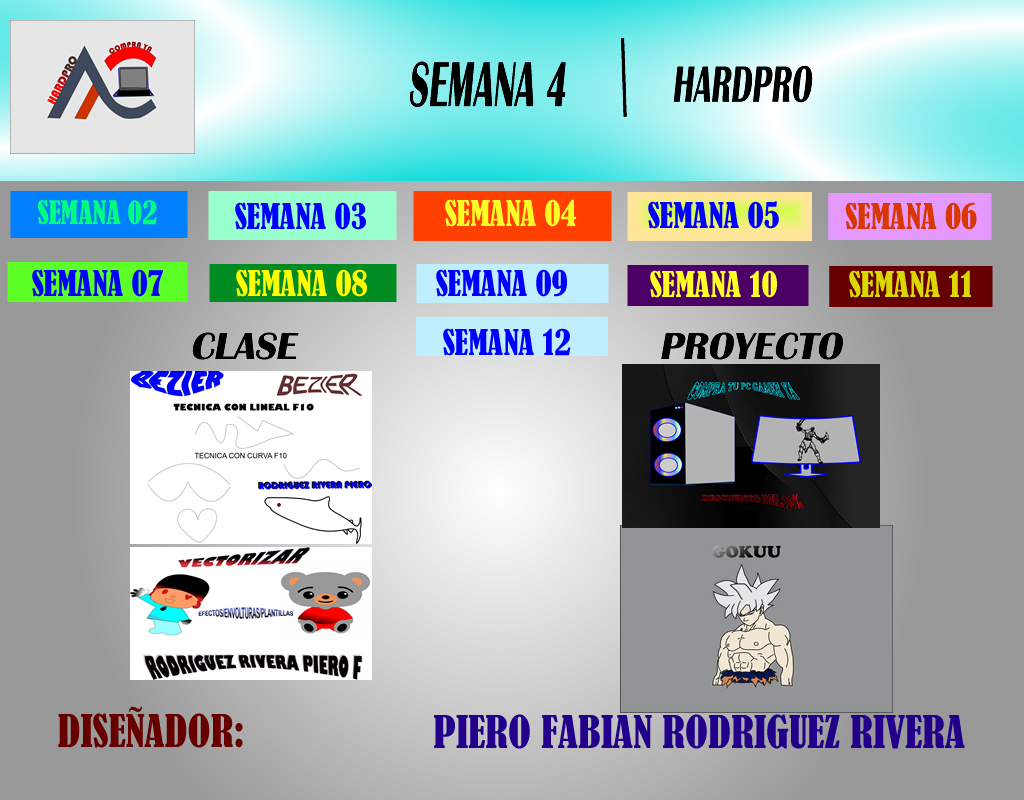
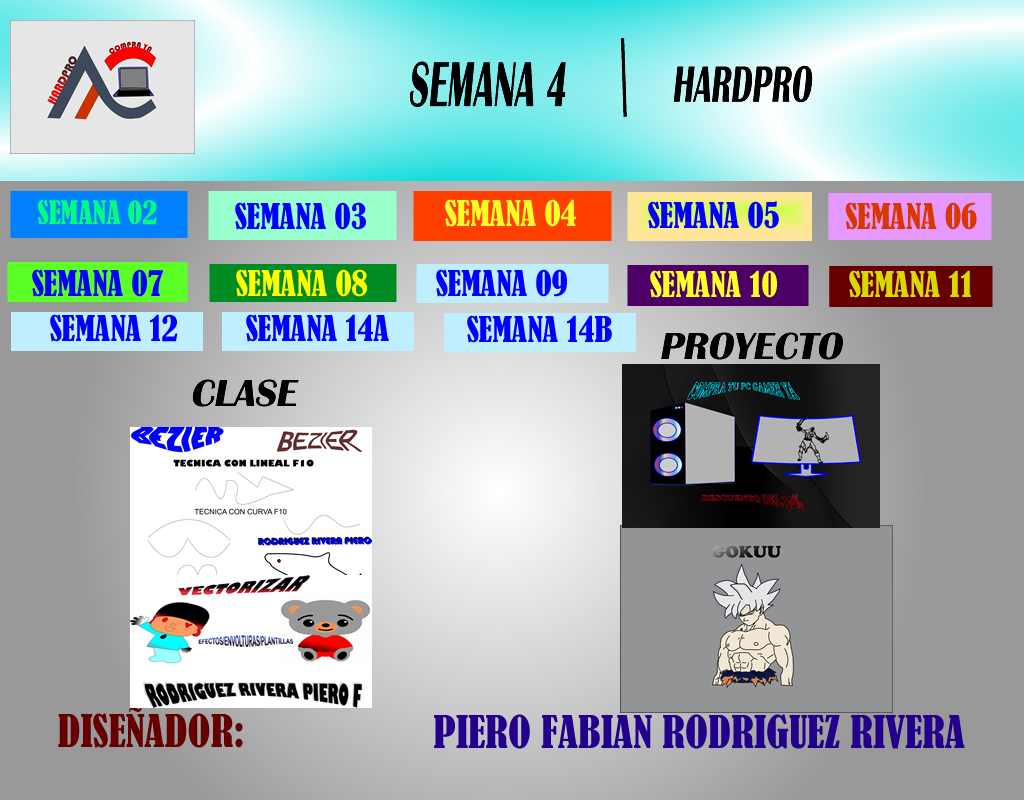
Add files via upload

Changed region(s): [[0.0, 0.375, 0.625, 0.9062]]

diff --git a/s12.html b/s12.html
@@ -5,20 +5,22 @@
 <head>
 <title>s12</title>
 <meta http-equiv="Content-Type" content="text/html; charset=utf-8" />
-<!--Fireworks CS6 Dreamweaver CS6 target.  Created Wed Jul 09 19:06:53 GMT-0500 2025-->
+<!--Fireworks CS6 Dreamweaver CS6 target.  Created Wed Jul 23 15:44:39 GMT-0500 2025-->
 </head>
 <center>
 <body bgcolor="#ffffff" style="margin-top:70px">
 <img name="s12" src="s12.png" width="1024" height="800" id="s12" usemap="#m_s12" alt="" /><map name="m_s12" id="m_s12">
+<area shape="rect" coords="0,308,195,350" href="s14a.html" alt="" />
+<area shape="rect" coords="205,310,400,352" href="s14b.html" alt="" />
 <area shape="rect" coords="0,0,195,138" href="index.html" alt="" />
-<area shape="rect" coords="824,250,989,292" href="s11.html" alt="" />
-<area shape="rect" coords="624,251,805,291" href="s10.html" alt="" />
+<area shape="rect" coords="825,250,990,292" href="s11.html" alt="" />
+<area shape="rect" coords="623,249,804,289" href="s10.html" alt="" />
 <area shape="rect" coords="410,249,605,291" href="s09.html" alt="" />
 <area shape="rect" coords="205,249,392,287" href="s08.html" alt="" />
 <area shape="rect" coords="4,247,184,287" href="s07.html" alt="" />
 <area shape="rect" coords="824,177,987,226" href="s06.html" alt="" />
 <area shape="rect" coords="624,176,811,226" href="s05.html" alt="" />
-<area shape="rect" coords="412,174,612,224" href="s04.html" alt="" />
+<area shape="rect" coords="407,173,607,223" href="s04.html" alt="" />
 <area shape="rect" coords="205,176,392,226" href="s03.html" alt="" />
 <area shape="rect" coords="7,176,184,221" href="s02.html" alt="" />
 </map>

diff --git a/s14b.html b/s14b.html
@@ -1,0 +1,29 @@
+<!DOCTYPE html PUBLIC "-//W3C//DTD XHTML 1.0 Transitional//EN"
+"http://www.w3.org/TR/xhtml1/DTD/xhtml1-transitional.dtd">
+<!-- saved from url=(0014)about:internet -->
+<html xmlns="http://www.w3.org/1999/xhtml">
+<head>
+<title>s14b</title>
+<meta http-equiv="Content-Type" content="text/html; charset=utf-8" />
+<!--Fireworks CS6 Dreamweaver CS6 target.  Created Wed Jul 23 15:44:55 GMT-0500 2025-->
+</head>
+<center>
+<body bgcolor="#ffffff" style="margin-top:70px">
+<img name="s14b" src="s14b.png" width="1024" height="800" id="s14b" usemap="#m_s14b" alt="" /><map name="m_s14b" id="m_s14b">
+<area shape="rect" coords="210,320,417,360" href="s14a.html" alt="" />
+<area shape="rect" coords="0,320,195,359" href="s12.html" alt="" />
+<area shape="rect" coords="0,13,195,151" href="index.html" alt="" />
+<area shape="rect" coords="824,263,989,305" href="s11.html" alt="" />
+<area shape="rect" coords="624,264,805,304" href="s10.html" alt="" />
+<area shape="rect" coords="410,262,605,304" href="s09.html" alt="" />
+<area shape="rect" coords="206,264,393,302" href="s08.html" alt="" />
+<area shape="rect" coords="4,260,184,300" href="s07.html" alt="" />
+<area shape="rect" coords="824,190,987,239" href="s06.html" alt="" />
+<area shape="rect" coords="624,189,811,239" href="s05.html" alt="" />
+<area shape="rect" coords="409,188,609,238" href="s04.html" alt="" />
+<area shape="rect" coords="205,189,392,239" href="s03.html" alt="" />
+<area shape="rect" coords="7,189,184,234" href="s02.html" alt="" />
+</map>
+</body>
+</center>
+</html>

diff --git a/s14a.html b/s14a.html
@@ -1,0 +1,29 @@
+<!DOCTYPE html PUBLIC "-//W3C//DTD XHTML 1.0 Transitional//EN"
+"http://www.w3.org/TR/xhtml1/DTD/xhtml1-transitional.dtd">
+<!-- saved from url=(0014)about:internet -->
+<html xmlns="http://www.w3.org/1999/xhtml">
+<head>
+<title>s14a</title>
+<meta http-equiv="Content-Type" content="text/html; charset=utf-8" />
+<!--Fireworks CS6 Dreamweaver CS6 target.  Created Wed Jul 23 15:44:47 GMT-0500 2025-->
+</head>
+<center>
+<body bgcolor="#ffffff" style="margin-top:70px">
+<img name="s14a" src="s14a.png" width="1024" height="800" id="s14a" usemap="#m_s14a" alt="" /><map name="m_s14a" id="m_s14a">
+<area shape="rect" coords="205,317,412,357" href="s14b.html" alt="" />
+<area shape="rect" coords="0,317,195,356" href="s12.html" alt="" />
+<area shape="rect" coords="0,10,195,148" href="index.html" alt="" />
+<area shape="rect" coords="824,260,989,302" href="s11.html" alt="" />
+<area shape="rect" coords="624,261,805,301" href="s10.html" alt="" />
+<area shape="rect" coords="410,259,605,301" href="s09.html" alt="" />
+<area shape="rect" coords="205,259,392,297" href="s08.html" alt="" />
+<area shape="rect" coords="4,257,184,297" href="s07.html" alt="" />
+<area shape="rect" coords="824,187,987,236" href="s06.html" alt="" />
+<area shape="rect" coords="624,186,811,236" href="s05.html" alt="" />
+<area shape="rect" coords="409,185,609,235" href="s04.html" alt="" />
+<area shape="rect" coords="205,186,392,236" href="s03.html" alt="" />
+<area shape="rect" coords="7,186,184,231" href="s02.html" alt="" />
+</map>
+</body>
+<center>
+</html>

diff --git a/index.html b/index.html
@@ -5,12 +5,14 @@
 <head>
 <title>index</title>
 <meta http-equiv="Content-Type" content="text/html; charset=utf-8" />
-<!--Fireworks CS6 Dreamweaver CS6 target.  Created Wed Jul 09 19:00:17 GMT-0500 2025-->
+<!--Fireworks CS6 Dreamweaver CS6 target.  Created Wed Jul 23 15:43:03 GMT-0500 2025-->
 </head>
 <center>
 <body bgcolor="#ffffff" style="margin-top:70px">
 <img name="index" src="index.png" width="1000" height="800" id="index" usemap="#m_index" alt="" /><map name="m_index" id="m_index">
-<area shape="rect" coords="406,326,603,365" href="s12.html" alt="" />
+<area shape="rect" coords="215,326,422,366" href="s14a.html" alt="" />
+<area shape="rect" coords="446,327,641,366" href="s14b.html" alt="" />
+<area shape="rect" coords="7,326,204,365" href="s12.html" alt="" />
 <area shape="rect" coords="827,275,992,317" href="s11.html" alt="" />
 <area shape="rect" coords="627,276,808,316" href="s10.html" alt="" />
 <area shape="rect" coords="401,272,596,314" href="s09.html" alt="" />

diff --git a/s10.html b/s10.html
@@ -5,12 +5,14 @@
 <head>
 <title>s10</title>
 <meta http-equiv="Content-Type" content="text/html; charset=utf-8" />
-<!--Fireworks CS6 Dreamweaver CS6 target.  Created Wed Jul 09 19:06:37 GMT-0500 2025-->
+<!--Fireworks CS6 Dreamweaver CS6 target.  Created Wed Jul 23 15:44:14 GMT-0500 2025-->
 </head>
 <center>
 <body bgcolor="#ffffff" style="margin-top:70px">
 <img name="s10" src="s10.png" width="1024" height="800" id="s10" usemap="#m_s10" alt="" /><map name="m_s10" id="m_s10">
-<area shape="rect" coords="408,300,620,355" href="s12.html" alt="" />
+<area shape="rect" coords="437,314,644,355" href="s14b.html" alt="" />
+<area shape="rect" coords="215,310,422,351" href="s14a.html" alt="" />
+<area shape="rect" coords="4,311,211,352" href="s12.html" alt="" />
 <area shape="rect" coords="4,4,191,138" href="index.html" alt="" />
 <area shape="rect" coords="824,250,989,292" href="s11.html" alt="" />
 <area shape="rect" coords="624,251,805,291" href="javascript:;" alt="" />

diff --git a/s11.html b/s11.html
@@ -5,12 +5,14 @@
 <head>
 <title>s11</title>
 <meta http-equiv="Content-Type" content="text/html; charset=utf-8" />
-<!--Fireworks CS6 Dreamweaver CS6 target.  Created Wed Jul 09 19:06:46 GMT-0500 2025-->
+<!--Fireworks CS6 Dreamweaver CS6 target.  Created Wed Jul 23 15:44:23 GMT-0500 2025-->
 </head>
 <center>
 <body bgcolor="#ffffff" style="margin-top:70px">
 <img name="s11" src="s11.png" width="1024" height="800" id="s11" usemap="#m_s11" alt="" /><map name="m_s11" id="m_s11">
-<area shape="rect" coords="409,308,604,347" href="s12.html" alt="" />
+<area shape="rect" coords="437,314,644,355" href="s14b.html" alt="" />
+<area shape="rect" coords="215,310,422,351" href="s14a.html" alt="" />
+<area shape="rect" coords="4,310,211,351" href="s12.html" alt="" />
 <area shape="rect" coords="0,0,202,138" href="index.html" alt="" />
 <area shape="rect" coords="824,250,989,292" href="javascript:;" alt="" />
 <area shape="rect" coords="624,251,805,291" href="s10.html" alt="" />

diff --git a/s02.html b/s02.html
@@ -5,12 +5,14 @@
 <head>
 <title>s02</title>
 <meta http-equiv="Content-Type" content="text/html; charset=utf-8" />
-<!--Fireworks CS6 Dreamweaver CS6 target.  Created Wed Jul 09 19:04:55 GMT-0500 2025-->
+<!--Fireworks CS6 Dreamweaver CS6 target.  Created Wed Jul 23 15:43:11 GMT-0500 2025-->
 </head>
 <center>
 <body bgcolor="#ffffff" style="margin-top:70px">
 <img name="s02" src="s02.png" width="1024" height="800" id="s02" usemap="#m_s02" alt="" /><map name="m_s02" id="m_s02">
-<area shape="rect" coords="384,323,576,362" href="s12.html" alt="" />
+<area shape="rect" coords="414,320,621,360" href="s14b.html" alt="" />
+<area shape="rect" coords="199,317,406,357" href="s14a.html" alt="" />
+<area shape="rect" coords="0,316,192,355" href="s12.html" alt="" />
 <area shape="rect" coords="0,30,194,164" href="index.html" alt="" />
 <area shape="rect" coords="827,275,992,317" href="s11.html" alt="" />
 <area shape="rect" coords="627,276,808,316" href="s10.html" alt="" />

diff --git a/s03.html b/s03.html
@@ -5,12 +5,14 @@
 <head>
 <title>s03</title>
 <meta http-equiv="Content-Type" content="text/html; charset=utf-8" />
-<!--Fireworks CS6 Dreamweaver CS6 target.  Created Wed Jul 09 19:05:02 GMT-0500 2025-->
+<!--Fireworks CS6 Dreamweaver CS6 target.  Created Wed Jul 23 15:43:18 GMT-0500 2025-->
 </head>
 <center>
 <body bgcolor="#ffffff" style="margin-top:70px">
 <img name="s03" src="s03.png" width="1024" height="800" id="s03" usemap="#m_s03" alt="" /><map name="m_s03" id="m_s03">
-<area shape="rect" coords="411,324,618,365" href="s12.html" alt="" />
+<area shape="rect" coords="437,314,644,355" href="s14b.html" alt="" />
+<area shape="rect" coords="215,310,422,351" href="s14a.html" alt="" />
+<area shape="rect" coords="4,310,211,351" href="s12.html" alt="" />
 <area shape="rect" coords="8,20,195,154" href="index.html" alt="" />
 <area shape="rect" coords="828,265,993,307" href="s11.html" alt="" />
 <area shape="rect" coords="628,266,809,306" href="s10.html" alt="" />

diff --git a/s04.html b/s04.html
@@ -5,12 +5,14 @@
 <head>
 <title>s04</title>
 <meta http-equiv="Content-Type" content="text/html; charset=utf-8" />
-<!--Fireworks CS6 Dreamweaver CS6 target.  Created Wed Jul 09 19:05:52 GMT-0500 2025-->
+<!--Fireworks CS6 Dreamweaver CS6 target.  Created Wed Jul 23 15:43:26 GMT-0500 2025-->
 </head>
 <center>
 <body bgcolor="#ffffff" style="margin-top:70px">
 <img name="s04" src="s04.png" width="1024" height="800" id="s04" usemap="#m_s04" alt="" /><map name="m_s04" id="m_s04">
-<area shape="rect" coords="412,317,608,356" href="s12.html" alt="" />
+<area shape="rect" coords="437,314,644,355" href="s14b.html" alt="" />
+<area shape="rect" coords="215,310,422,351" href="s14a.html" alt="" />
+<area shape="rect" coords="4,310,211,351" href="s12.html" alt="" />
 <area shape="rect" coords="8,20,195,154" href="index.html" alt="" />
 <area shape="rect" coords="828,265,993,307" href="s11.html" alt="" />
 <area shape="rect" coords="628,266,809,306" href="s10.html" alt="" />

diff --git a/s05.html b/s05.html
@@ -5,12 +5,14 @@
 <head>
 <title>s05</title>
 <meta http-equiv="Content-Type" content="text/html; charset=utf-8" />
-<!--Fireworks CS6 Dreamweaver CS6 target.  Created Wed Jul 09 19:05:59 GMT-0500 2025-->
+<!--Fireworks CS6 Dreamweaver CS6 target.  Created Wed Jul 23 15:43:34 GMT-0500 2025-->
 </head>
 <center>
 <body bgcolor="#ffffff" style="margin-top:70px">
 <img name="s05" src="s05.png" width="1024" height="800" id="s05" usemap="#m_s05" alt="" /><map name="m_s05" id="m_s05">
-<area shape="rect" coords="397,324,612,365" href="s12.html" alt="" />
+<area shape="rect" coords="441,311,648,352" href="s14b.html" alt="" />
+<area shape="rect" coords="219,307,426,348" href="s14a.html" alt="" />
+<area shape="rect" coords="8,307,215,348" href="s12.html" alt="" />
 <area shape="rect" coords="8,12,205,154" href="index.html" alt="" />
 <area shape="rect" coords="828,265,993,307" href="s11.html" alt="" />
 <area shape="rect" coords="628,266,809,306" href="s10.html" alt="" />

diff --git a/s06.html b/s06.html
@@ -5,12 +5,14 @@
 <head>
 <title>s06</title>
 <meta http-equiv="Content-Type" content="text/html; charset=utf-8" />
-<!--Fireworks CS6 Dreamweaver CS6 target.  Created Wed Jul 09 19:06:06 GMT-0500 2025-->
+<!--Fireworks CS6 Dreamweaver CS6 target.  Created Wed Jul 23 15:43:42 GMT-0500 2025-->
 </head>
 <center>
 <body bgcolor="#ffffff" style="margin-top:70px">
 <img name="s06" src="s06.png" width="1024" height="800" id="s06" usemap="#m_s06" alt="" /><map name="m_s06" id="m_s06">
-<area shape="rect" coords="411,311,612,358" href="s12.html" alt="" />
+<area shape="rect" coords="437,314,644,355" href="s14b.html" alt="" />
+<area shape="rect" coords="215,310,422,351" href="s14a.html" alt="" />
+<area shape="rect" coords="4,310,211,351" href="s12.html" alt="" />
 <area shape="rect" coords="0,15,206,149" href="index.html" alt="" />
 <area shape="rect" coords="828,260,993,302" href="s11.html" alt="" />
 <area shape="rect" coords="628,261,809,301" href="s10.html" alt="" />

diff --git a/s07.html b/s07.html
@@ -5,12 +5,14 @@
 <head>
 <title>s07</title>
 <meta http-equiv="Content-Type" content="text/html; charset=utf-8" />
-<!--Fireworks CS6 Dreamweaver CS6 target.  Created Wed Jul 09 19:06:14 GMT-0500 2025-->
+<!--Fireworks CS6 Dreamweaver CS6 target.  Created Wed Jul 23 15:43:49 GMT-0500 2025-->
 </head>
 <center>
 <body bgcolor="#ffffff" style="margin-top:70px">
 <img name="s07" src="s07.png" width="1024" height="800" id="s07" usemap="#m_s07" alt="" /><map name="m_s07" id="m_s07">
-<area shape="rect" coords="411,324,612,365" href="s12.html" alt="" />
+<area shape="rect" coords="437,314,644,355" href="s14b.html" alt="" />
+<area shape="rect" coords="215,310,422,351" href="s14a.html" alt="" />
+<area shape="rect" coords="4,310,211,351" href="s12.html" alt="" />
 <area shape="rect" coords="0,20,205,154" href="index.html" alt="" />
 <area shape="rect" coords="828,265,993,307" href="s11.html" alt="" />
 <area shape="rect" coords="628,266,809,306" href="s10.html" alt="" />
